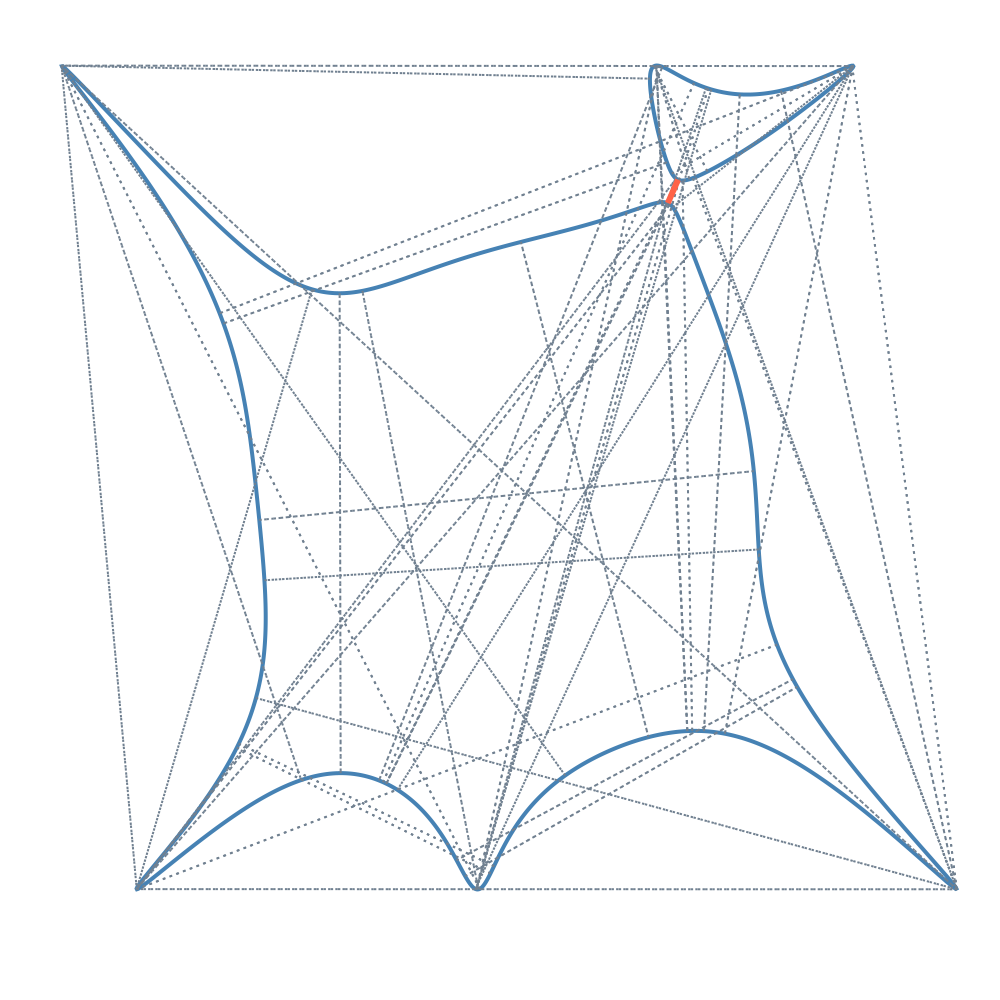
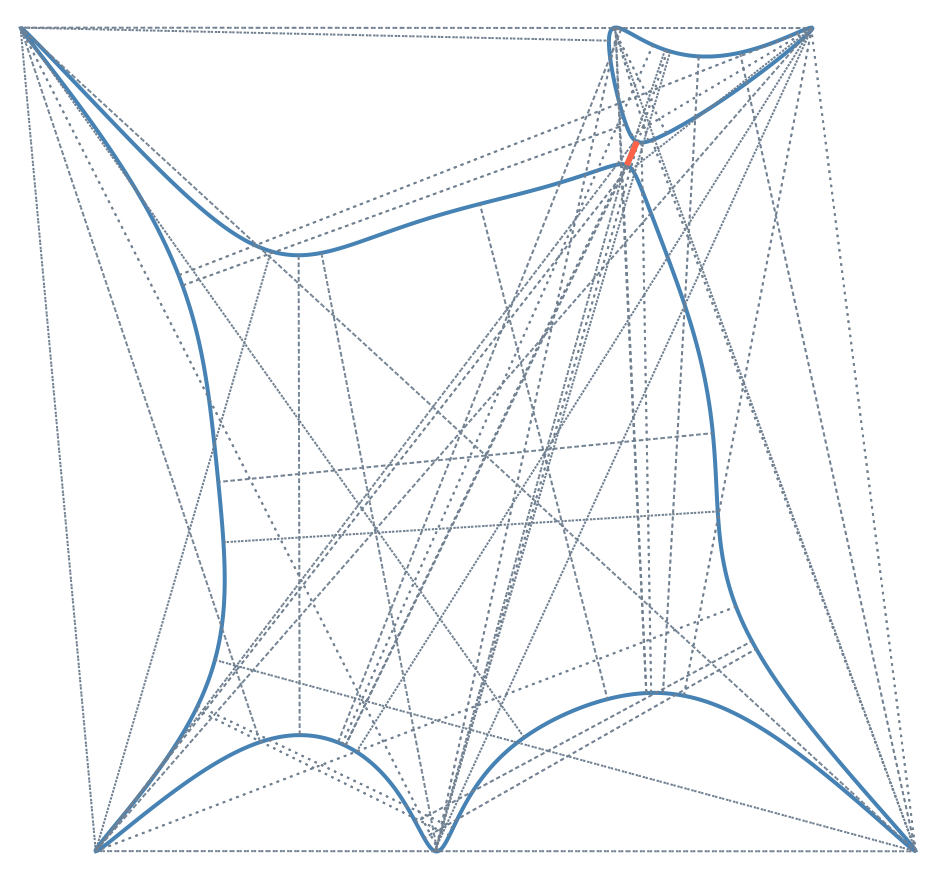
Deploy www.JuliaHomotopyContinuation.org to github.com/JuliaHomotopyContinuation/juliahomotopycontinuation.github.io.git:master

Changed region(s): [[0.0, 0.0308, 0.9862, 0.9863], [0.8321, 0.4623, 0.8937, 0.6473]]

diff --git a/examples/reach-curve/index.html b/examples/reach-curve/index.html
@@ -136,7 +136,7 @@
 
 <meta itemprop="datePublished" content="2019-10-21T10:00:00&#43;02:00" />
 <meta itemprop="dateModified" content="2019-10-21T10:00:00&#43;02:00" />
-<meta itemprop="wordCount" content="978">
+<meta itemprop="wordCount" content="1030">
 
 
 
@@ -176,7 +176,12 @@
 f(x,y) = (x^3 - xy^2 + y + 1)^2(x^2+y^2 - 1)+y^2-5 = 0
 $$</p>
 
-<p style="text-align:center;"><img src="/images/curve_reach.png" width="500px"/></p>
+<figure>
+<img src="/images/curve_reach.png" style="width:80%;display: block;margin-left: auto;margin-right: auto;">
+<figcaption style="text-align:center;">
+The curve $C \subset \mathbb{R}^2$ defined by $f(x,y) = (x^3 - xy^2 + y + 1)^2(x^2+y^2 - 1)+y^2-5 = 0$.
+</figcaption>
+</figure>
 
 <p>As pointed out by <a href="https://arxiv.org/pdf/1705.04565.pdf">Aamari et. al.</a> the reach is the determined by the bottlenecks of $C$, which quantify how close $C$ is from being self-intersecting, and the curvature of $C$:</p>
 
@@ -267,13 +272,18 @@ for (p₁,p₂,q₁,q₂) in bn_pairs
   plot!([p₁, q₁], [p₂, q₂];
         color = :slategray, grid=false, linestyle=:dot)
 end
-# Draw smallest bottleneck in red
+# Draw narrowest bottleneck in red
 narrowest_bn_pair = bn_pairs[ρ_min_ind]
 plot!(narrowest_bn_pair[[1,3]], narrowest_bn_pair[[2,4]];
       color = :tomato, grid=false, linewidth = 3)
 </code></pre>
 
-<p style="text-align:center;"><img src="/images/curve_reach_bottlenecks.png" width="500px"/></p>
+<figure>
+<img src="/images/curve_reach_bottlenecks.png" style="width:80%;display: block;margin-left: auto;margin-right: auto;">
+<figcaption style="text-align:center;">
+The curve $C$ and its bottlenecks dashed in gray. The narrowest bottleneck is colored <span style="color:tomato">red</span>.
+</figcaption>
+</figure>
 
 <h2 id="maximal-curvature">Maximal curvature</h2>
 
@@ -344,7 +354,12 @@ scatter!(max_curv_pt[1:1], max_curv_pt[2:2];
          color=:tomato, grid=false)
 </code></pre>
 
-<p style="text-align:center;"><img src="/images/curve_reach_curvature.png" width="500px"/></p>
+<figure>
+<img src="/images/curve_reach_curvature.png" style="width:80%;display: block;margin-left: auto;margin-right: auto;">
+<figcaption style="text-align:center;">
+The curve $C$ and its points of critical curvature. The point of maximal curvature is in <span style="color:tomato">red</span>.
+</figcaption>
+</figure>
 
 <strong>Cite this example:</strong>
 <pre style="background: transparent;">
